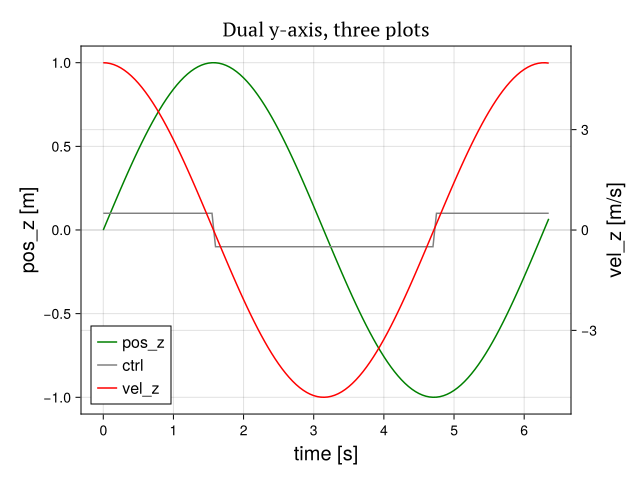
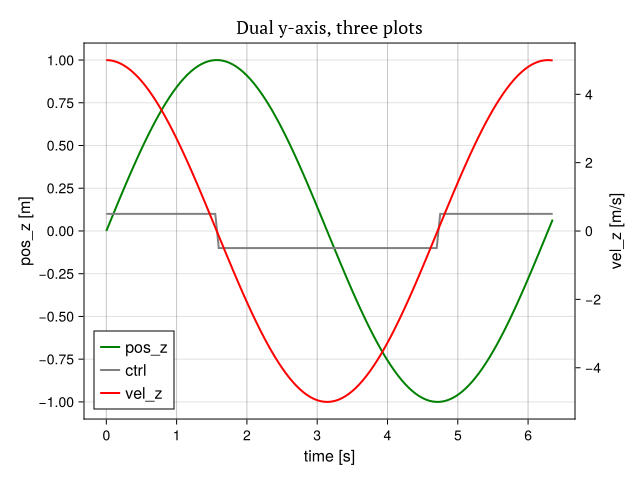
Update README.md

diff --git a/README.md b/README.md
@@ -307,7 +307,7 @@ VEL_Z = 5*cos.(T)
 CTRL = 0.1*sign.(5*cos.(T))
 p=plot(T, [POS_Z, CTRL], VEL_Z; 
        xlabel="time [s]", ylabels=["pos_z [m]", "vel_z [m/s]"], legendsize=16, labels=["pos_z", "ctrl", "vel_z"],
-       fig="dual-y-axis-3", title="Dual y-axis, three plots")
+       fig="dual-y-axis-3", title="Dual y-axis, three plots", xticks=0:1:2pi+0.1, yticks=(0.25, 2))
 ```
 
 <p align="center"><img src="./docs/dual-y-axis-3.png" width="400" /></p>
@@ -321,8 +321,18 @@ plot(X, Y1::AbstractVector{<:AbstractVector}, Y2::AbstractVector{<:Number};
      fig="", ysize=nothing, xsize=nothing, labelsize=16,
      legend_position=:auto, output_folder="output", disp=false,
      new_screen=true, legendsize=16, titlesize=18, xscale=:identity,
-     grid=true, label="", xticks=nothing)
+     grid=true, label="", xticks=nothing, yticks=nothing)
 ```
+
+The optional `yticks` parameter sets tick spacing on the dual axes: a single
+number spaces ticks that many units apart, computed independently from each
+axis's own data range, so `yticks=20` gives the left and right axes their own
+0/20/40/... ranges rather than a shared one. A `(left, right)` tuple lets the
+axes differ — each entry can be a step, an explicit tick collection/range, or
+`nothing` to leave that axis on Makie's automatic ticks, e.g.
+`yticks=(0.05, nothing)` sets a 0.05 spacing on the left axis only. The
+right-hand axis never draws its own horizontal gridlines (they wouldn't align
+with the left axis's), regardless of the `grid` setting.
 
 ### Bode plot
 
